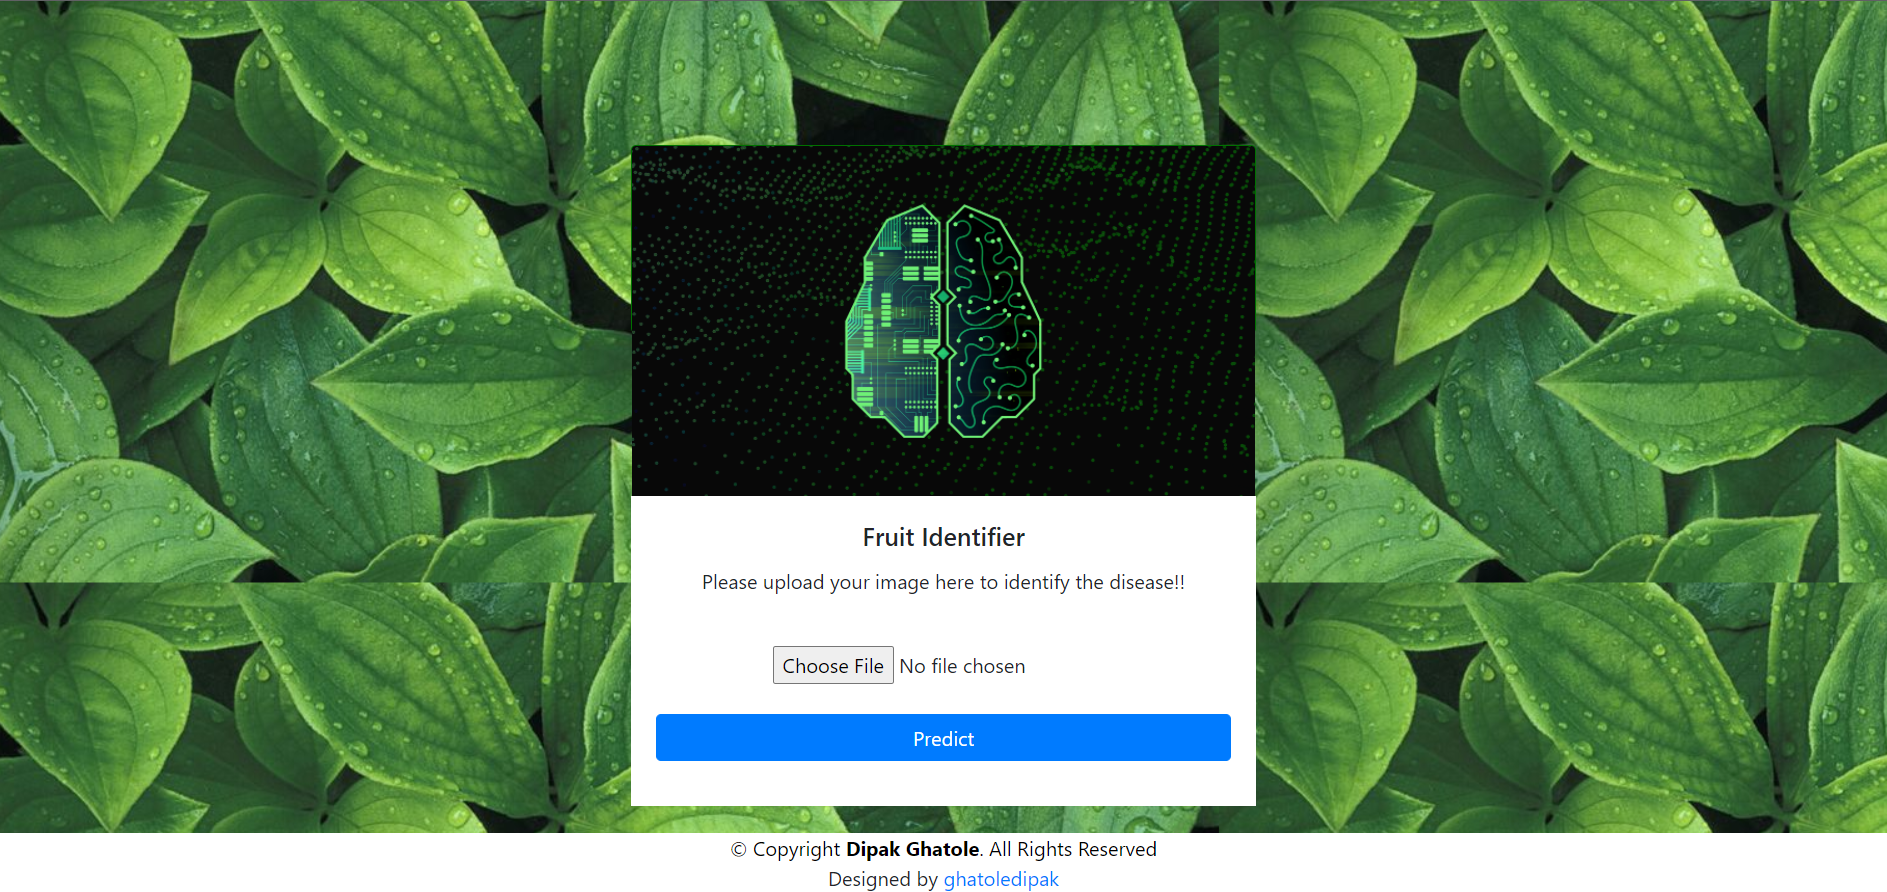
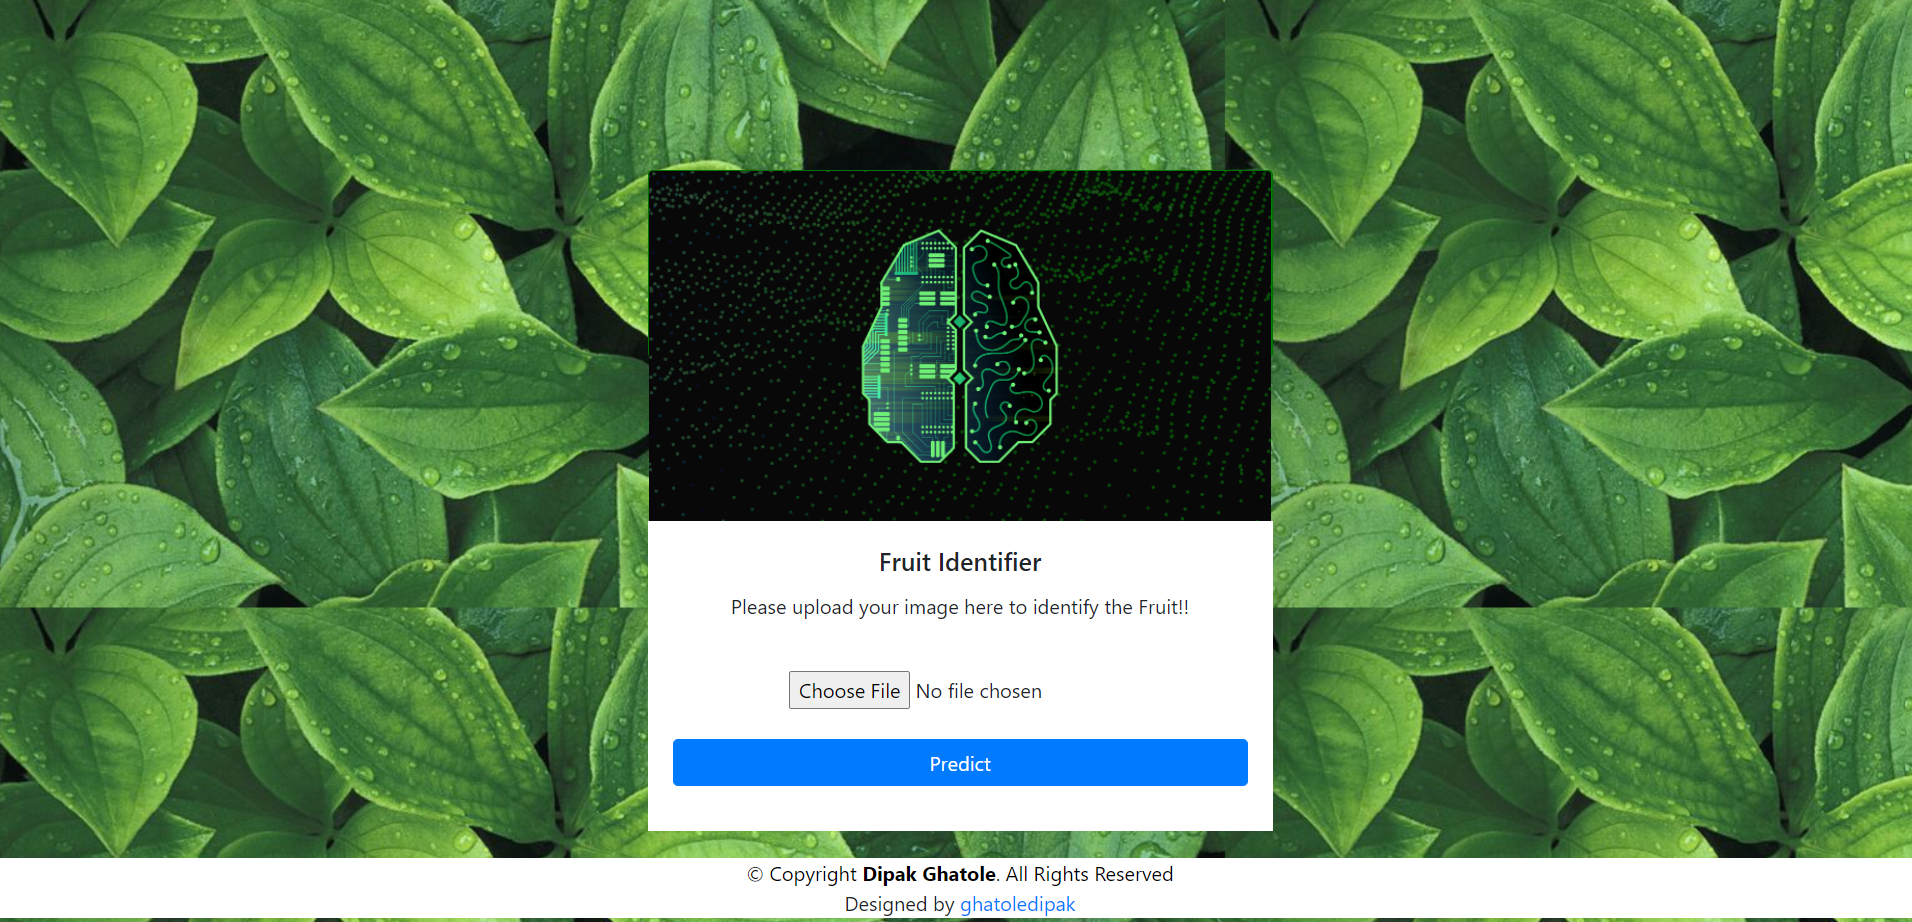
Add files via upload

diff --git a/templates/index.html b/templates/index.html
@@ -31,7 +31,7 @@
         <div class="card-body" >
           <h5 class="card-title">Fruit Identifier</h5>
           <p class="card-text">
-              Please upload your image here to identify the disease!!
+              Please upload your image here to identify the Fruit!!
           <form method=post enctype=multipart/form-data>
             <br>
             <input type="file" name="image" style="padding-left: 20px;"><br><br>
